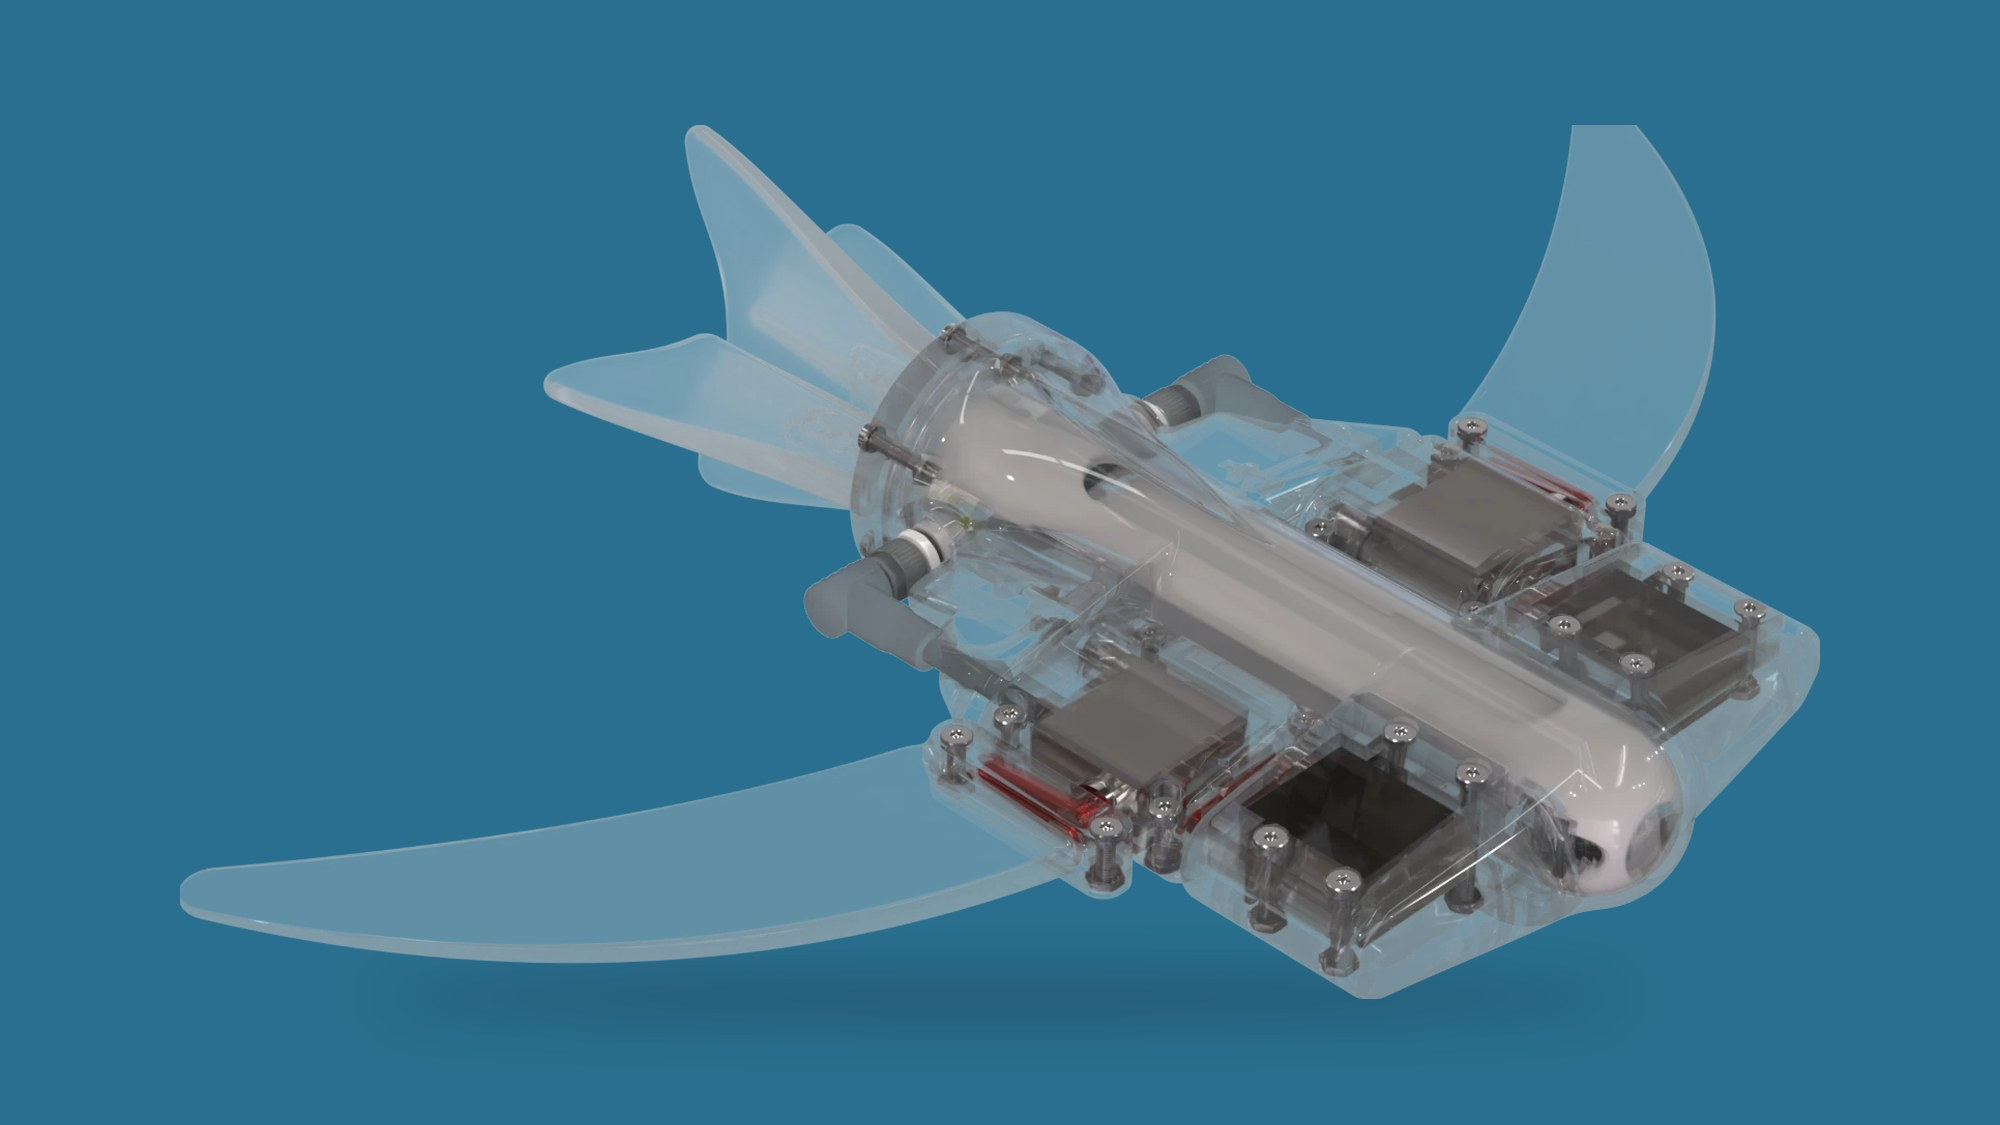
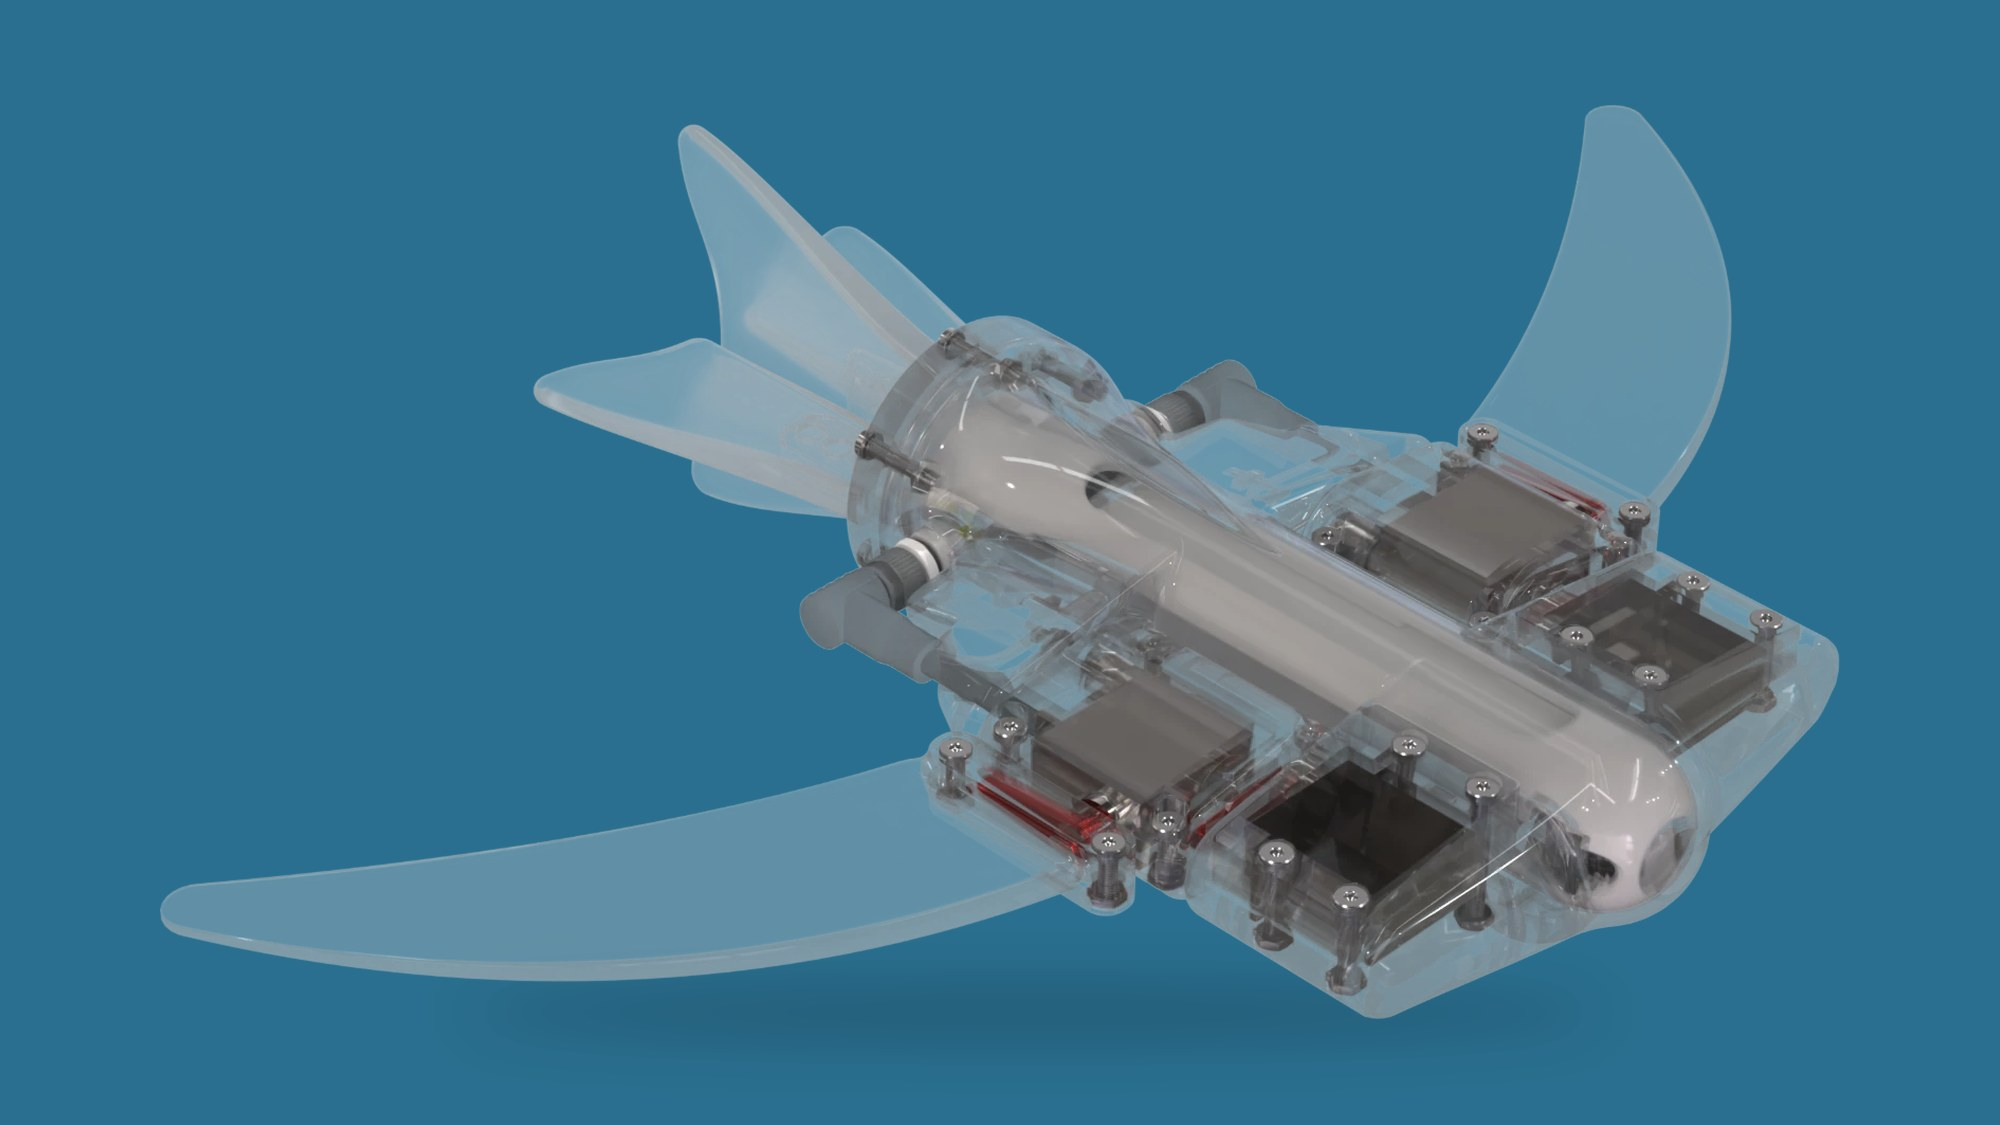
PhD tile: new swimming robot render on hanada blue, fins fully in frame
Claude-Session: https://claude.ai/code/session_01FRyJPBebUtKmxdzujR9oGm

diff --git a/index.html b/index.html
@@ -53,7 +53,7 @@
 -->
 <main class="grid">
   <a class="tile" href="research.html" data-tags="sci eng">
-    <div class="frame"><img src="images/research/cover.jpg" alt="Bioinspired swimming robot with clear housing and flexible pectoral fins, on a deep blue background"></div>
+    <div class="frame"><img src="images/research/cover.jpg?v=2" alt="Bioinspired swimming robot with clear housing and flexible pectoral fins, on a deep blue background"></div>
     <div class="cap"><span class="cat"><span class="dots" aria-hidden="true"><i class="sci"></i><i class="eng"></i></span>Science · Engineering</span><span class="yr">Current</span><h3>PhD Research</h3></div>
   </a>
 
